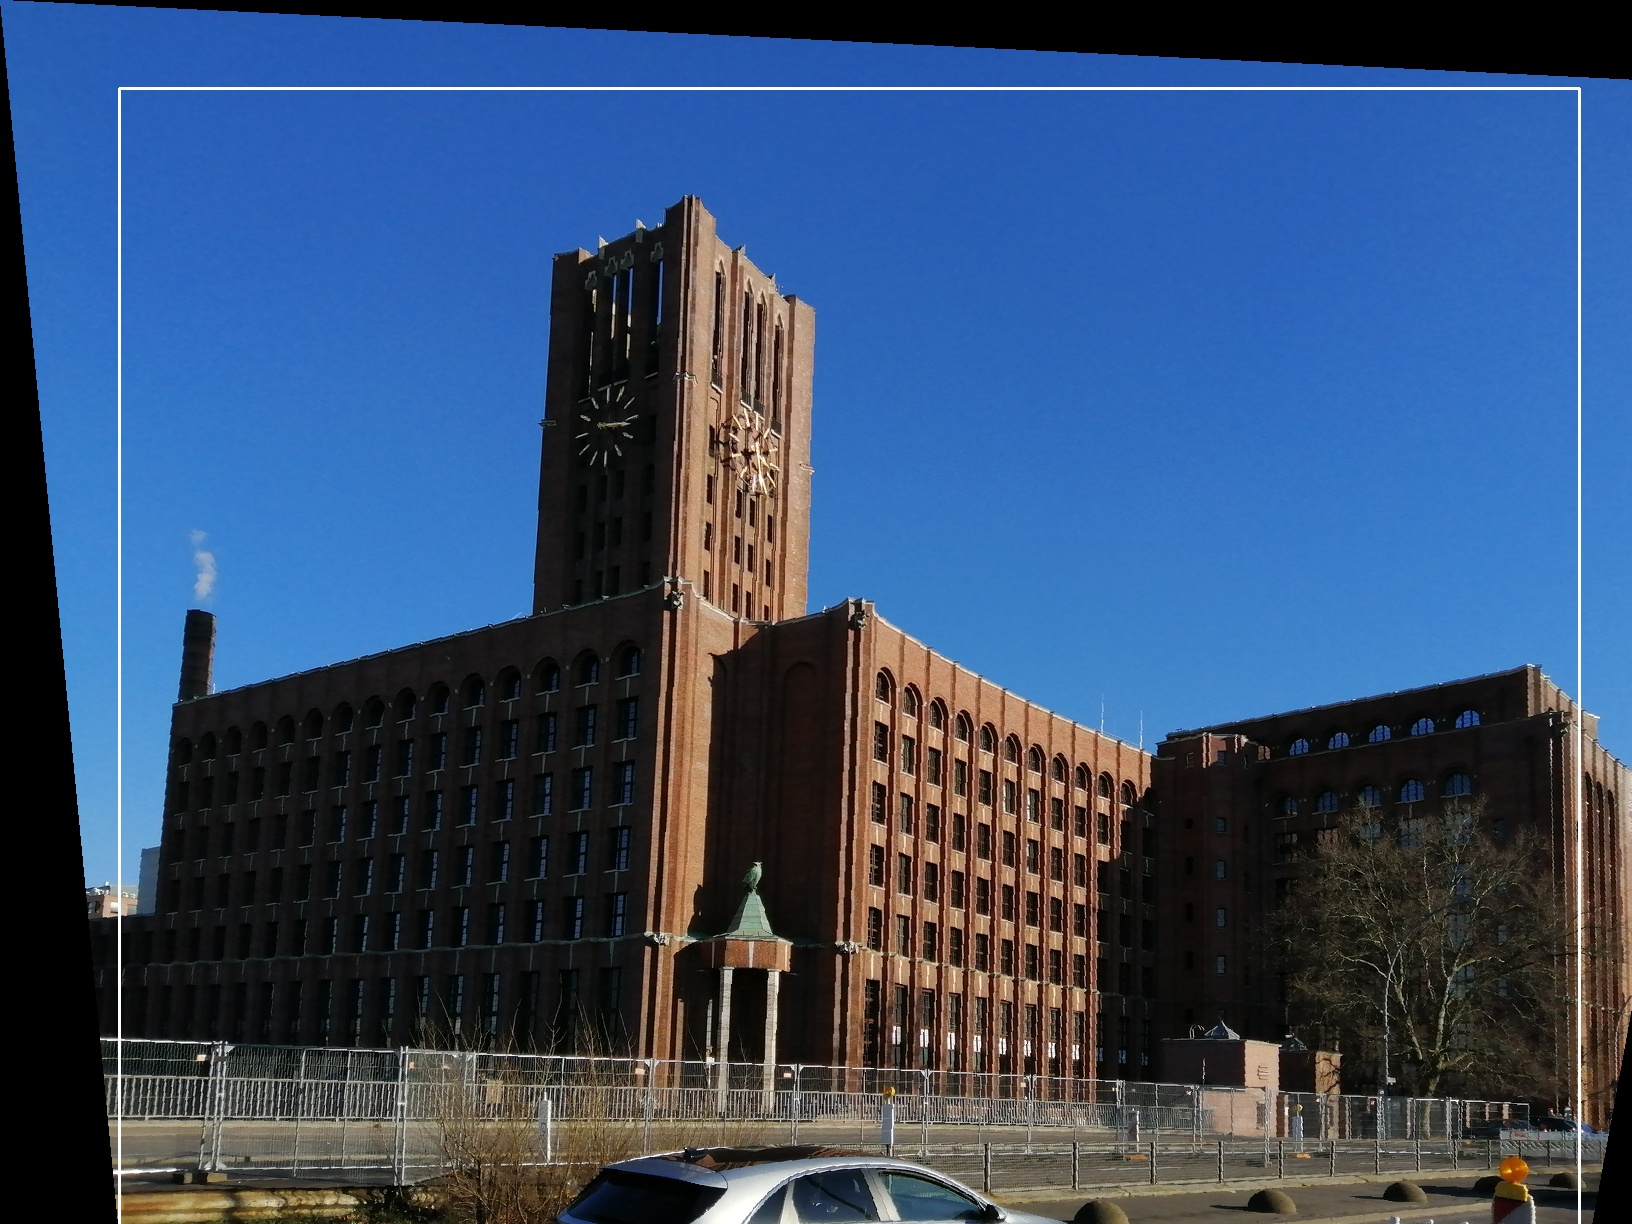
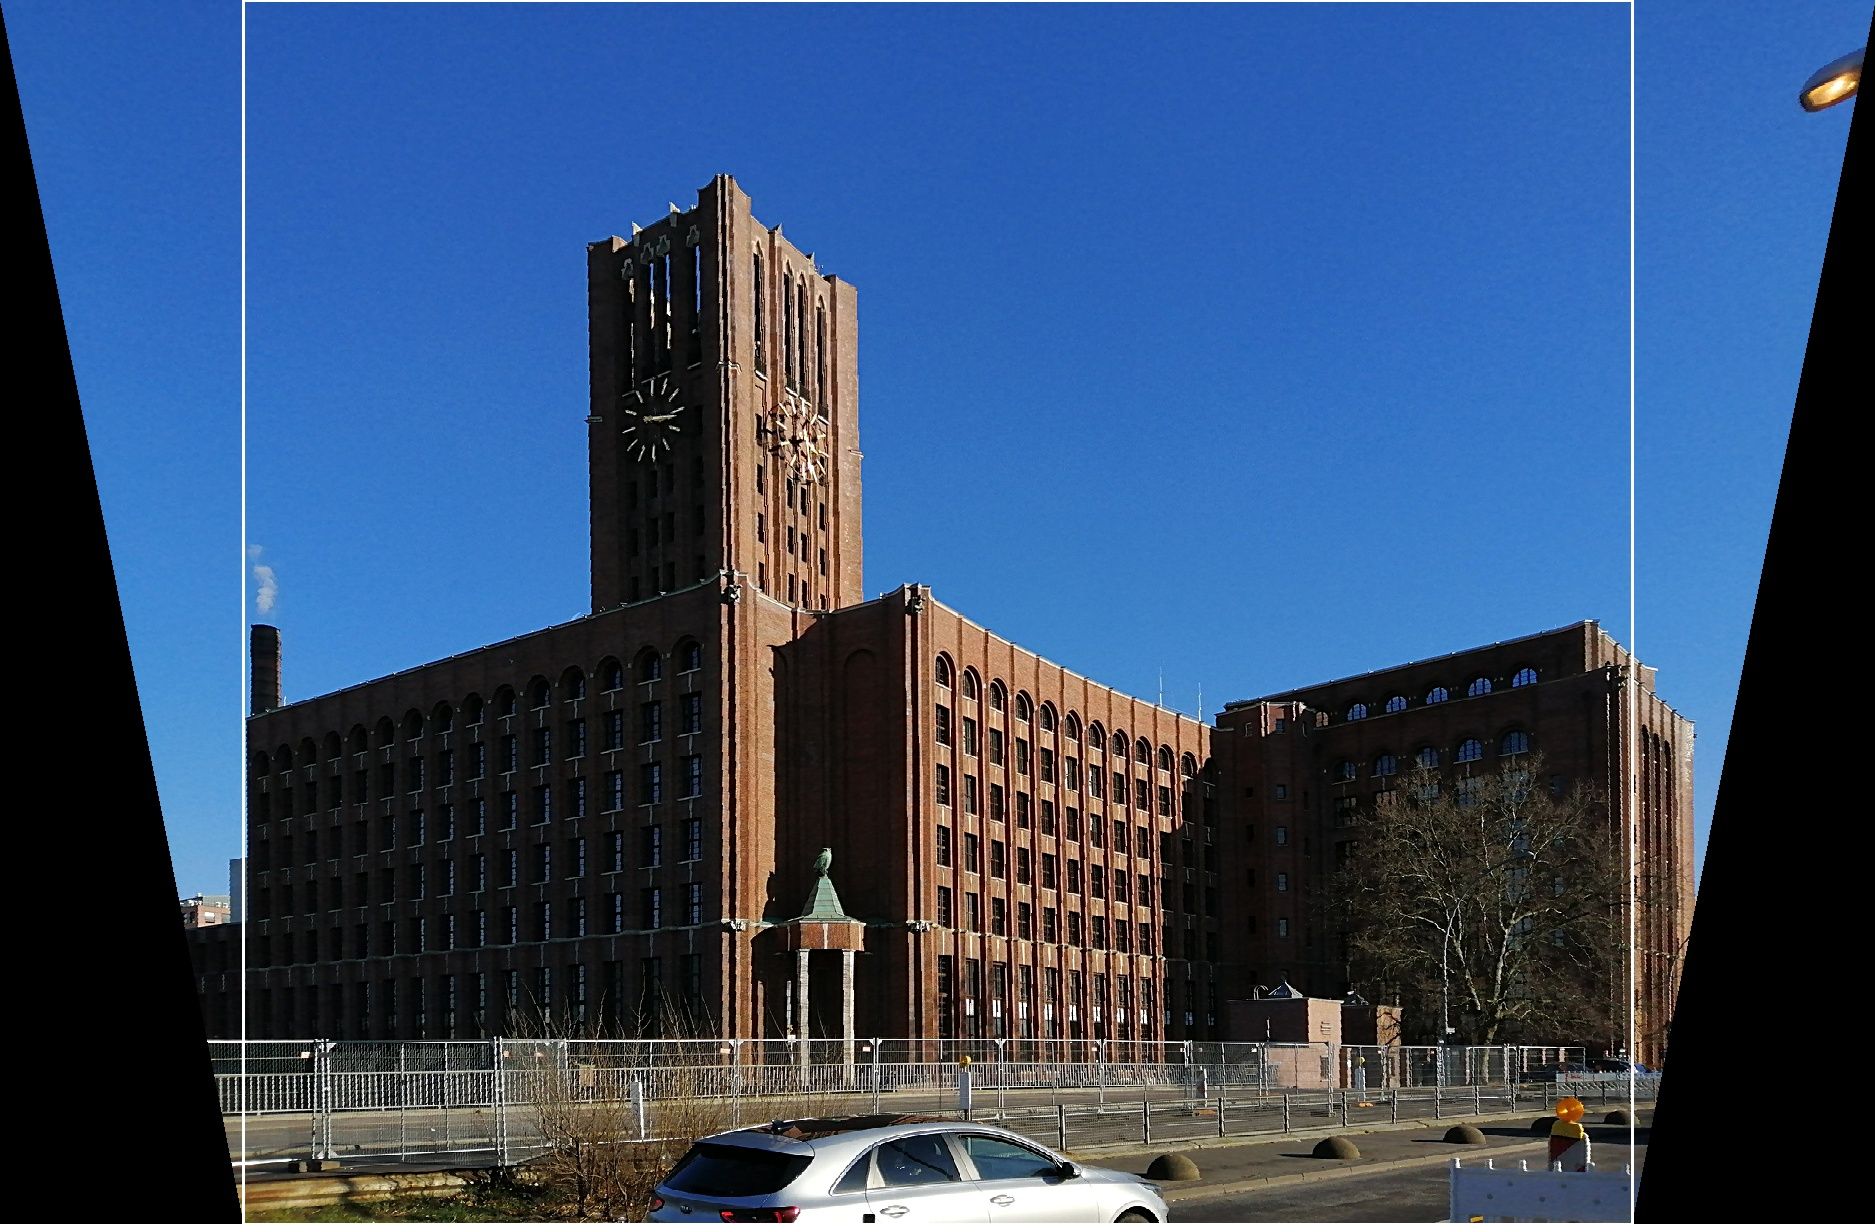
Improved results with sharpen

diff --git a/src/ashift.c b/src/ashift.c
@@ -1434,7 +1434,7 @@ float * shift(
     p.ct = 0.0;
     p.cb = 1.0;
 
-    dt_iop_ashift_fitaxis_t dir = ASHIFT_FIT_VERTICALLY;
+    dt_iop_ashift_fitaxis_t dir = ASHIFT_FIT_VERTICALLY_NO_ROTATION;
     dt_iop_ashift_nmsresult_t res = nmsfit(&g, &p, dir);
 
     switch(res)
